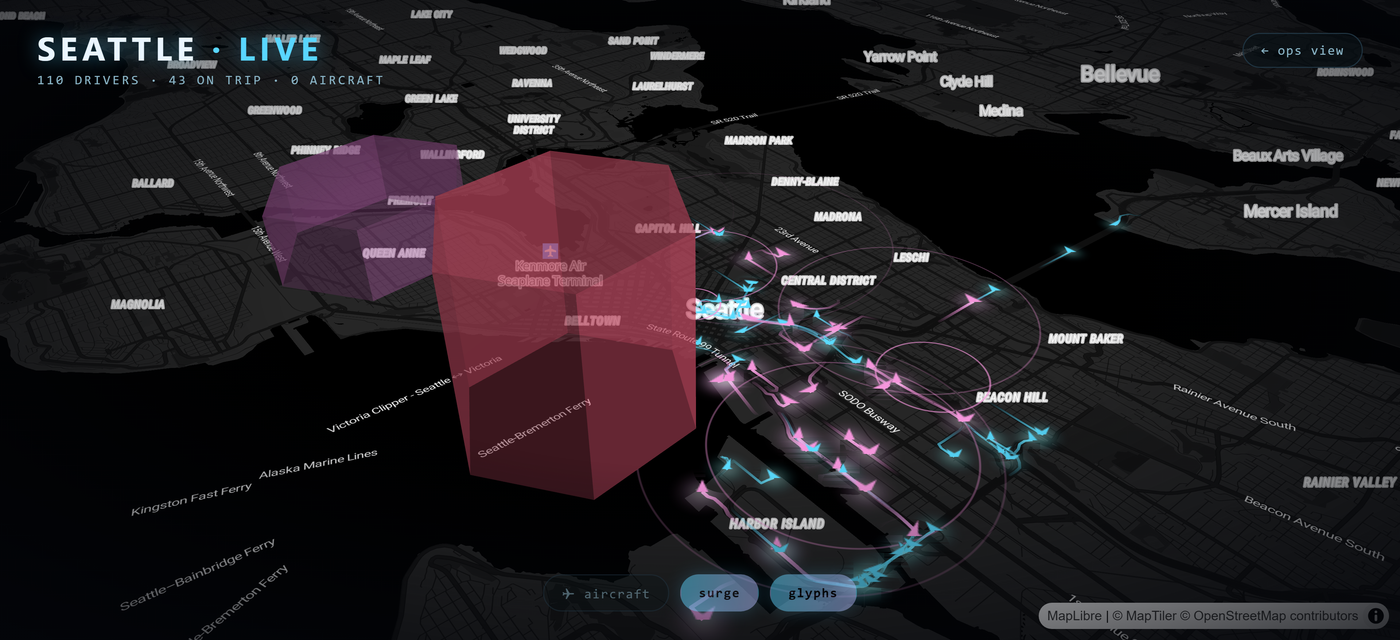
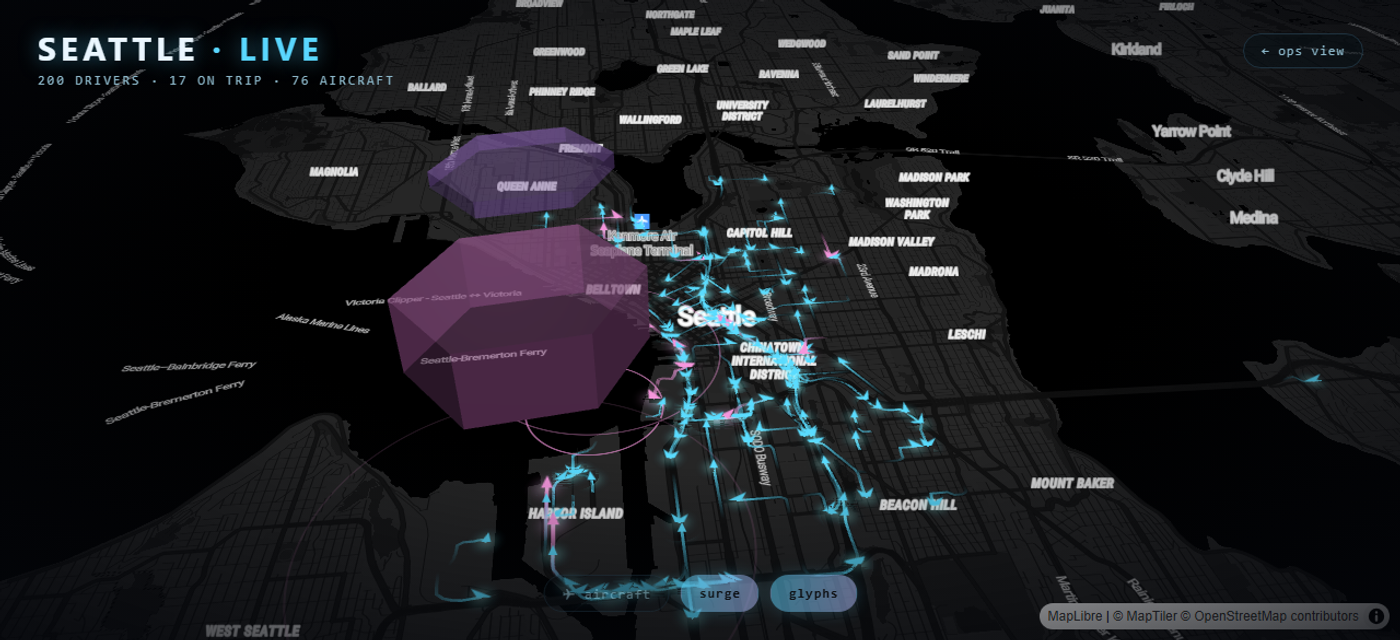
fix(blog): repair corrupted cinematic GIF + collapse phase nav into dropdown
- cinematic.gif was corrupted (RGB vs RGBA stride mismatch in encoder) —
  re-encoded with 4-channel RGBA; refreshed trails.png / surge3d.png too
- nav: replace flat Phase 1..7 links with a single 'Phases' dropdown (native
  <details>, renders from a phases[] list so it scales as phases ship);
  close on outside-click / link-click / Esc; show compact nav on mobile too

diff --git a/docs-site/src/styles/global.css b/docs-site/src/styles/global.css
@@ -71,9 +71,40 @@ nav.top .wrap { display: flex; align-items: center; justify-content: space-betwe
 nav.top .brand { font-weight: 700; letter-spacing: .3px; display: flex; gap: 10px; align-items: center; }
 nav.top .dot { width: 10px; height: 10px; border-radius: 50%; background: var(--accent);
   box-shadow: 0 0 12px var(--accent); }
-nav.top .links { display: flex; gap: 22px; font-size: 14px; }
+nav.top .links { display: flex; align-items: center; gap: 22px; font-size: 14px; }
 nav.top .links a { color: var(--ink-dim); }
 nav.top .links a:hover { color: var(--ink); text-decoration: none; }
+
+/* phases dropdown (native <details>, no framework) */
+nav.top .menu { position: relative; }
+nav.top .menu > summary {
+  list-style: none; cursor: pointer; color: var(--ink-dim);
+  display: inline-flex; align-items: center; gap: 6px; user-select: none;
+}
+nav.top .menu > summary::-webkit-details-marker { display: none; }
+nav.top .menu > summary:hover { color: var(--ink); }
+nav.top .menu .caret { font-size: 11px; transition: transform .2s ease; }
+nav.top .menu[open] > summary { color: var(--ink); }
+nav.top .menu[open] .caret { transform: rotate(180deg); }
+nav.top .menu .panel {
+  position: absolute; top: calc(100% + 12px); right: 0; z-index: 60;
+  min-width: 230px; padding: 6px;
+  display: flex; flex-direction: column;
+  background: #0a0e16f2; backdrop-filter: blur(14px);
+  border: 1px solid var(--line); border-radius: 12px;
+  box-shadow: 0 18px 44px #000a, 0 0 0 1px #ffffff08 inset;
+  animation: menuIn .16s ease;
+}
+@keyframes menuIn { from { opacity: 0; transform: translateY(-6px); } to { opacity: 1; transform: none; } }
+nav.top .menu .panel a {
+  display: flex; align-items: center; gap: 12px;
+  padding: 9px 12px; border-radius: 8px; font-size: 14px; color: var(--ink-dim);
+}
+nav.top .menu .panel a:hover { background: #ffffff0d; color: var(--ink); }
+nav.top .menu .panel .pn {
+  font: 600 11px/1 ui-monospace, monospace; letter-spacing: .5px;
+  color: var(--accent); min-width: 20px;
+}
 
 /* ---------- hero ---------- */
 .hero { padding: 130px 0 90px; text-align: center; }
@@ -189,7 +220,8 @@ footer .wrap { display: flex; justify-content: space-between; flex-wrap: wrap; g
 
 @media (max-width: 720px) {
   .stats { grid-template-columns: repeat(2, 1fr); }
-  nav.top .links { display: none; }
+  nav.top .links { gap: 14px; font-size: 13px; }
+  nav.top .menu .panel { min-width: 200px; }
 }
 
 /* ---------- lightbox ---------- */